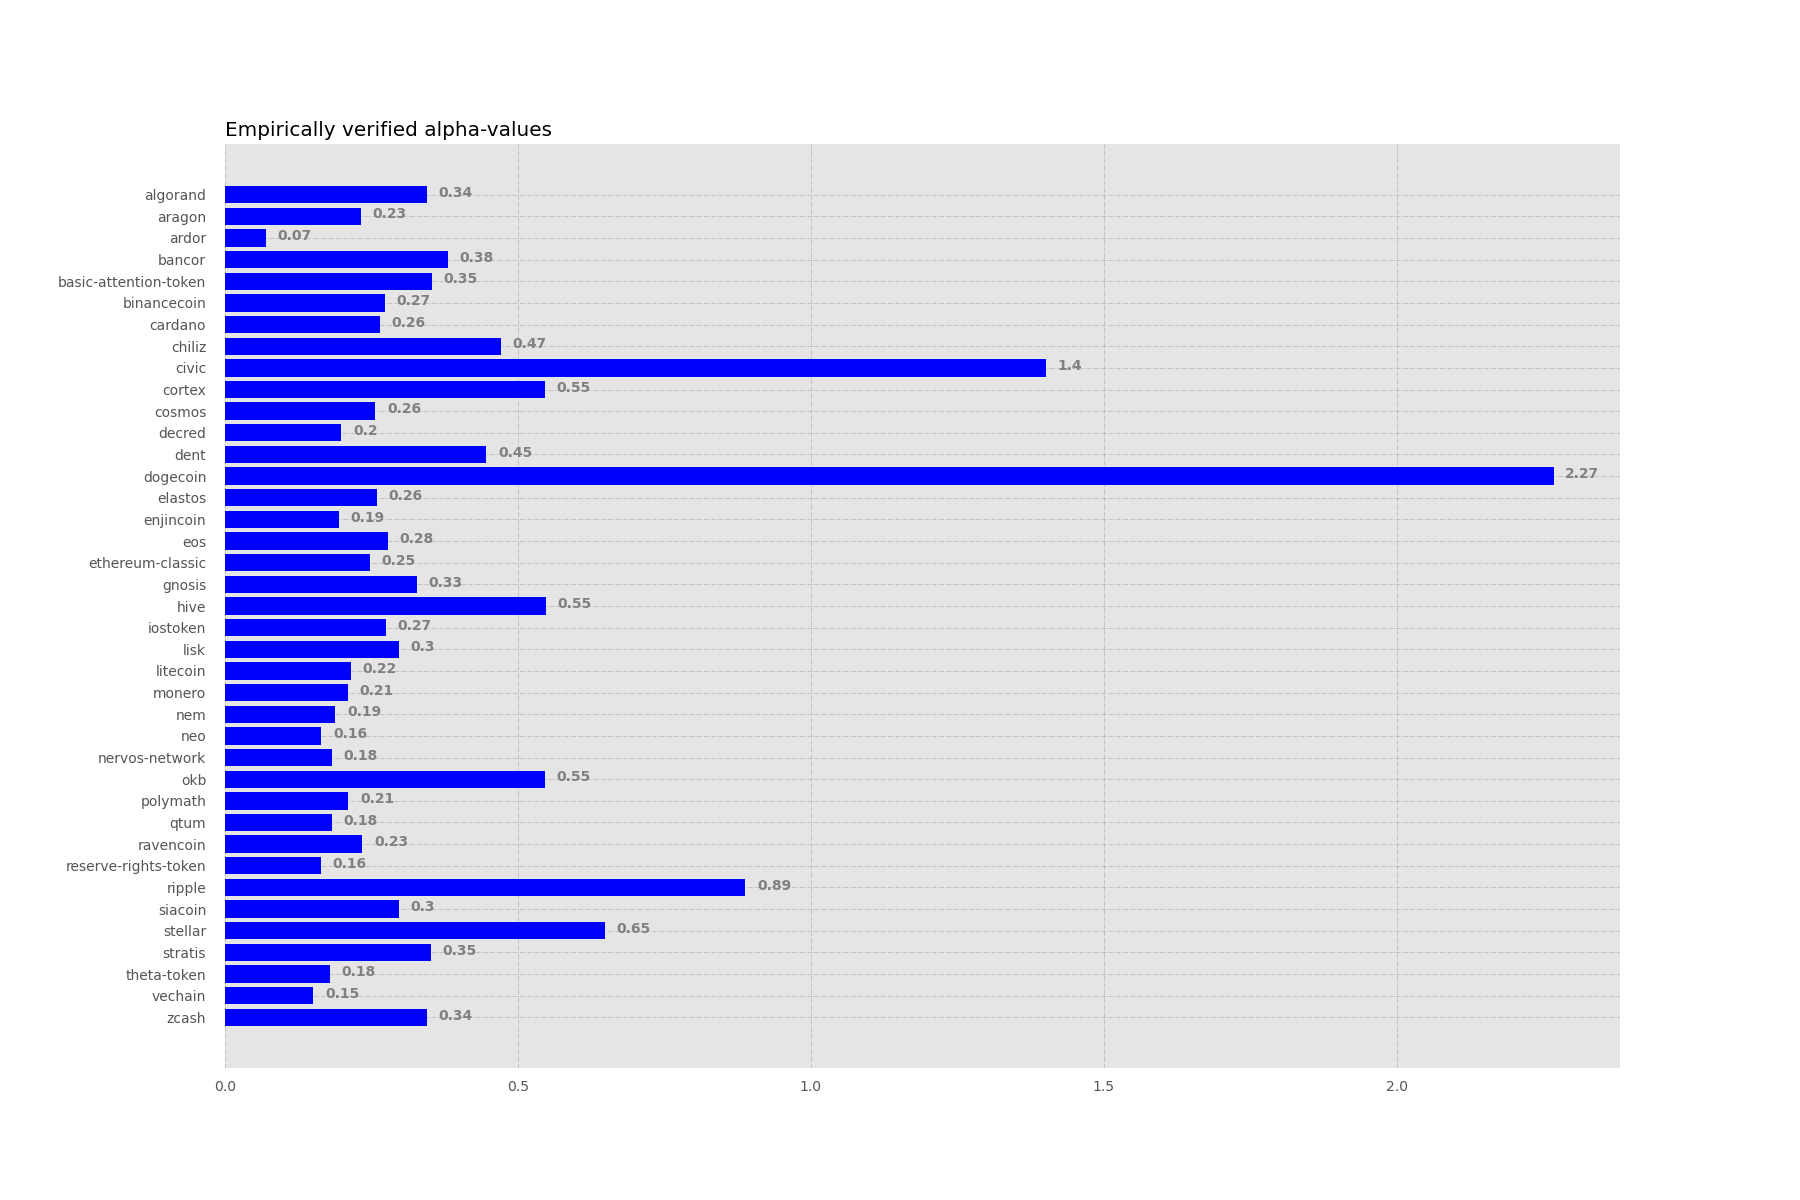
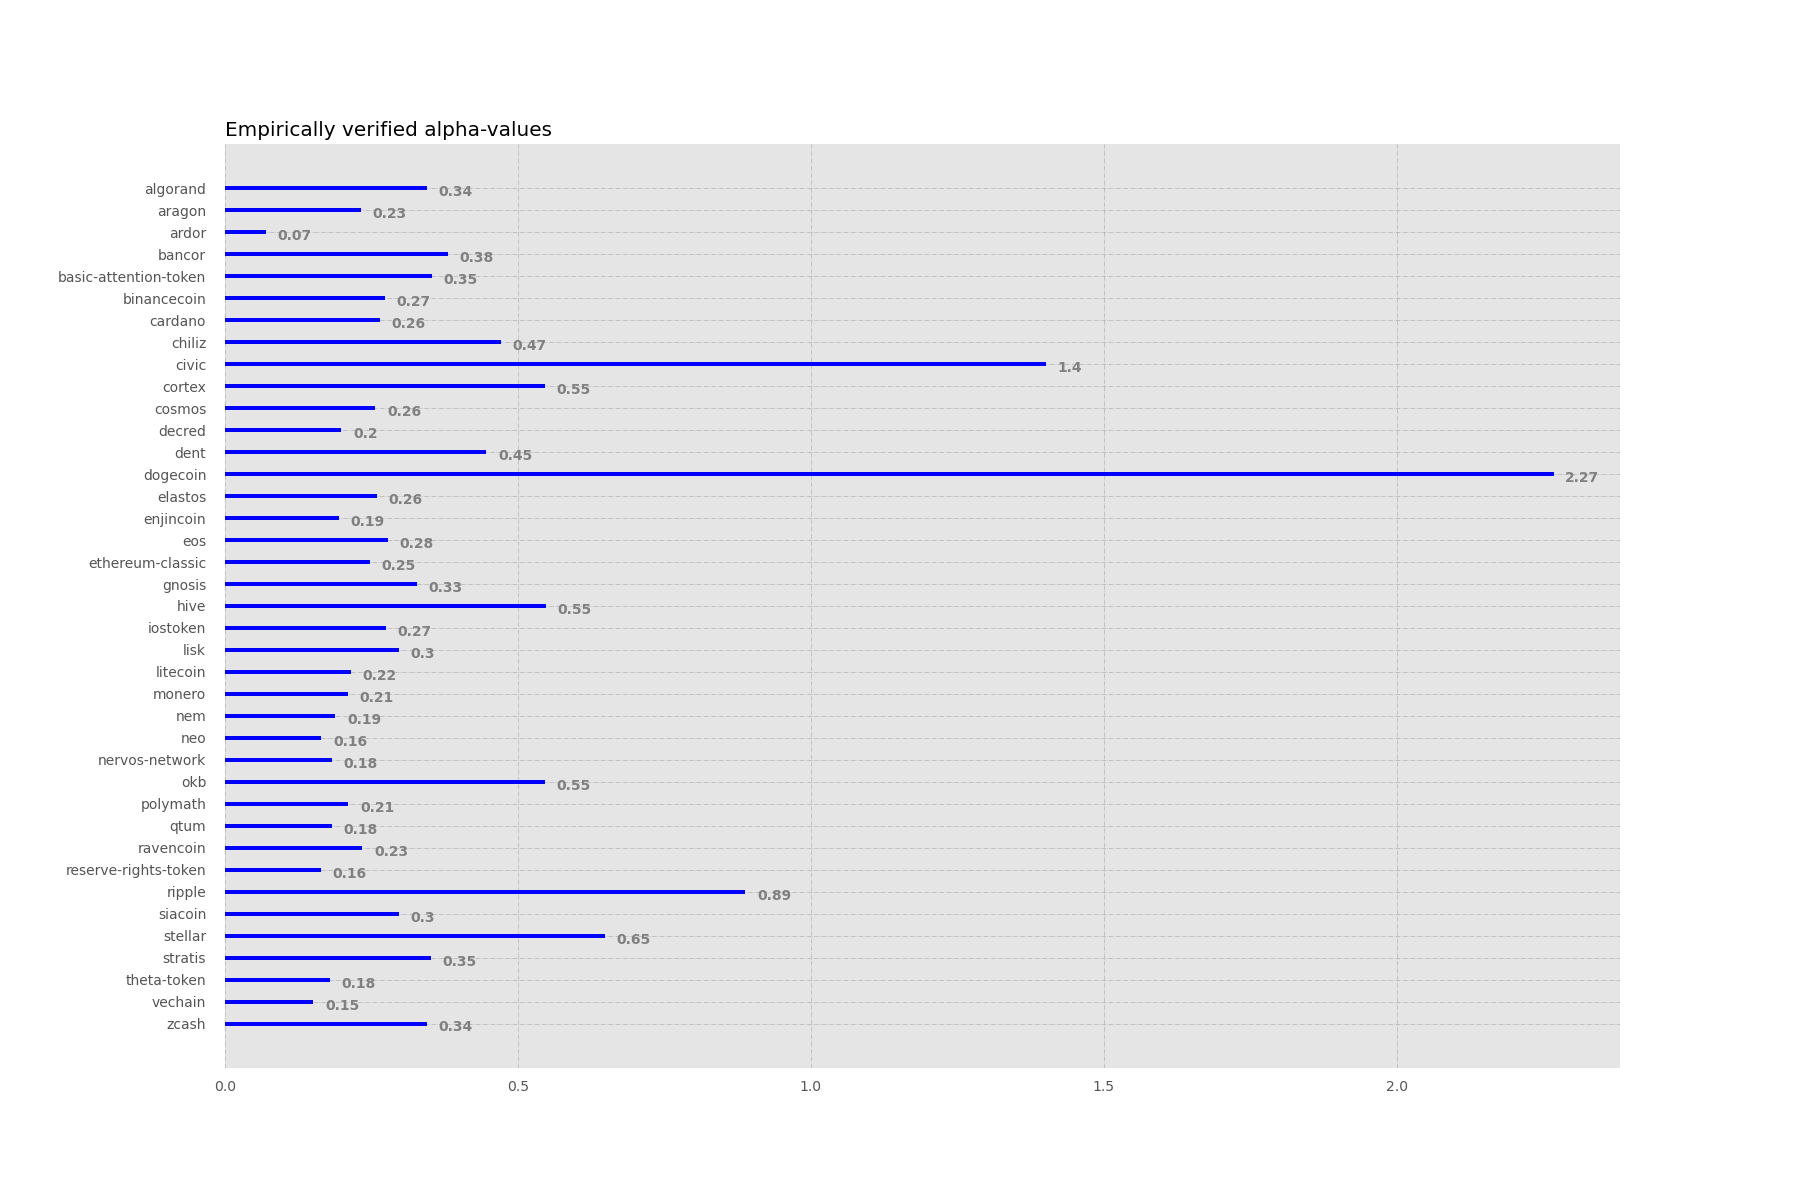
FINAL MODEL of THESIS

Changed region(s): [[0.0311, 0.1542, 0.9022, 0.8633]]

diff --git a/visuals.py b/visuals.py
@@ -116,7 +116,6 @@ def grouped_barplot(egarchp, data):
     plt.savefig('figures/grouped_' + egarchp + '_values.png', dpi=300, bbox_inches='tight')
 
 
-
 # grouped_barplot('alpha', alpha_vals)
 # grouped_barplot('beta', beta_vals)
 
@@ -136,7 +135,7 @@ def verified_barplot(parameters, data):
     figr, ax = plt.subplots(figsize=(18, 12))
 
     # Horizontal Bar Plot
-    ax.barh(data.index, data[parameters], color='blue')
+    ax.barh(data.index, data[parameters], color='blue', height=0.2)
 
     # Remove axes splines
     for s in ['top', 'bottom', 'left', 'right']:
@@ -160,7 +159,7 @@ def verified_barplot(parameters, data):
 
     # Add annotation to bars
     for i in ax.patches:
-        plt.text(i.get_width() + 0.02, i.get_y() + 0.5,
+        plt.text(i.get_width() + 0.02, i.get_y() + 0.45,
                  str(round((i.get_width()), 2)),
                  fontsize=10, fontweight='bold',
                  color='grey')
